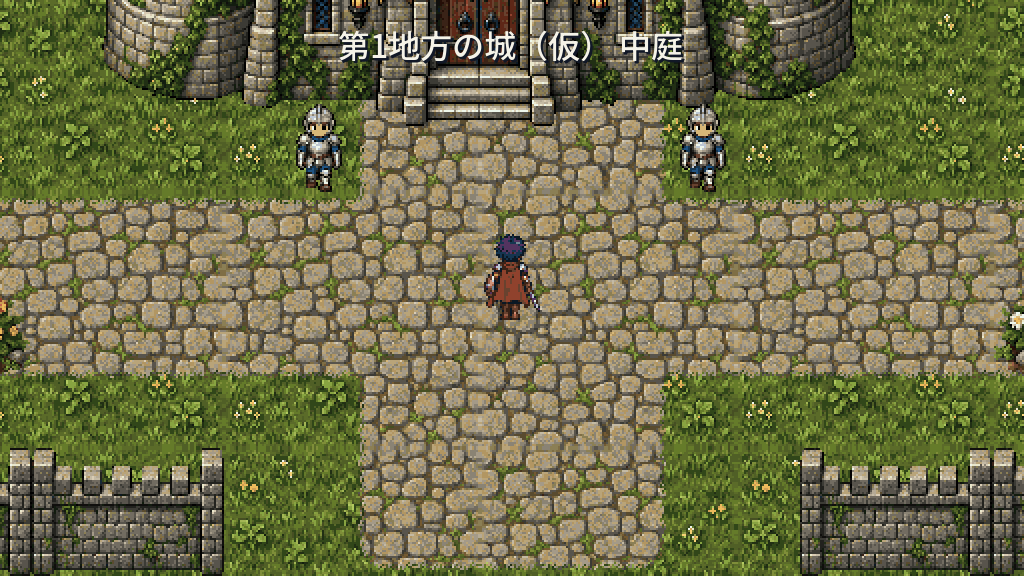
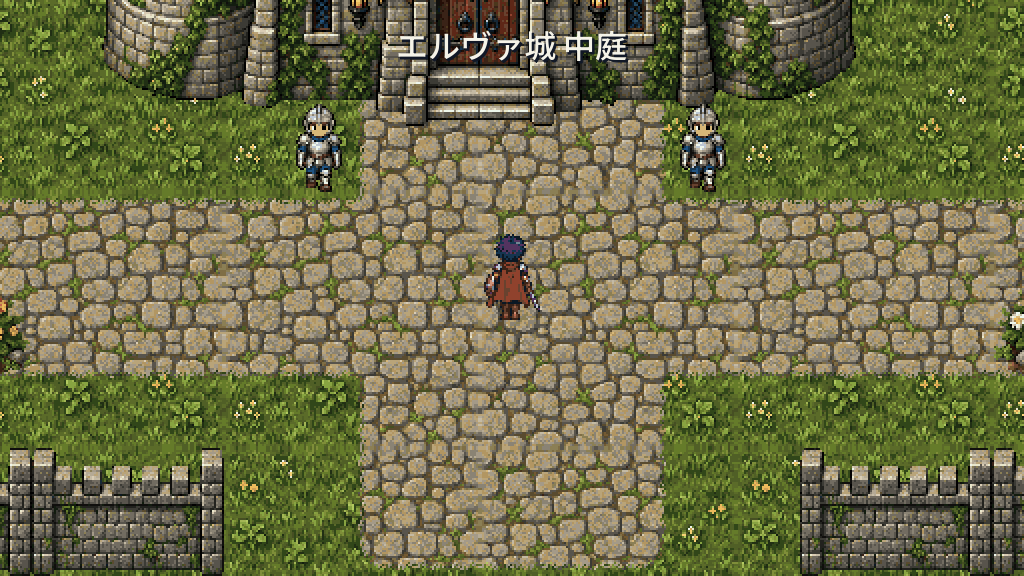
城下町と城の石垣を低くそろえ仮称と未決事項を記録する

Changed region(s): [[0.3125, 0.0312, 0.6875, 0.125]]

diff --git a/tools/build_low_castle_wall.py b/tools/build_low_castle_wall.py
@@ -1,0 +1,24 @@
+"""上下の壁の石積みから、尖らず幅が一定の左右用の低い石垣を作る。"""
+import json
+import hashlib
+from pathlib import Path
+from PIL import Image
+
+ROOT=Path(__file__).resolve().parents[1]
+
+def main():
+    source='assets/objects/natural_wall_horizontal.png'
+    target='assets/objects/castle_low_wall_vertical.png'
+    original=Image.open(ROOT/source).convert('RGBA')
+    # 胸壁より下のまっすぐな石積みを使う。階段状の縦壁や先細りの輪郭は使わない。
+    strip=original.crop((0,24,96,64)).transpose(Image.Transpose.ROTATE_90)
+    wall=Image.new('RGBA',(64,96));wall.alpha_composite(strip,(12,0));wall.save(ROOT/target)
+    registry_path=ROOT/'assets/registry.json';registry=json.loads(registry_path.read_text(encoding='utf8'))
+    entries={e['path']:e for e in registry['assets']}
+    entries[target]=dict(path=target,kind='object',size=[64,96],max_colors=64,status='required',palette='assets/palette/natural.gpl',source='generated',tool='Python/Pillow',author='RPG-maker / Codex',license='LicenseRef-Generated-Project',generated_at='2026-09-28',prompt_record='assets/source_records/visual-target-generation.json#wall_kit',modified='承認済みの水平壁から直線の石積み領域(0,24,96,64)を切り出し、90度回転して左右用の低い石垣へ配置。元画像・通行領域は不変。',component_sources=[source])
+    registry['assets']=list(entries.values());registry_path.write_text(json.dumps(registry,ensure_ascii=False,indent=2)+'\n',encoding='utf8',newline='\n')
+    record={'source':source,'source_sha256':hashlib.sha256((ROOT/source).read_bytes()).hexdigest(),'crop':[0,24,96,64],'rotation':90,'offset':[12,0],'output':target,'sha256':hashlib.sha256((ROOT/target).read_bytes()).hexdigest()}
+    (ROOT/'assets/source_records/castle-low-wall.json').write_text(json.dumps(record,ensure_ascii=False,indent=2)+'\n',encoding='utf8',newline='\n')
+    print('LOW_CASTLE_WALL_PASS: size=64x96 source_unchanged=1')
+
+if __name__=='__main__':main()

diff --git a/tools/build_castle_town.py b/tools/build_castle_town.py
@@ -97,7 +97,7 @@ def main():
     town.stamp(obj('bench'),22,14);town.stamp(obj('well'),10,20)
     for x in range(0,36,3):
         if not 15<=x<=18:town.stamp(obj('wall_horizontal'),x,0);town.stamp(obj('wall_horizontal'),x,24)
-    for y in range(2,24,3):town.stamp(obj('wall_vertical'),0,y);town.stamp(obj('wall_vertical'),34,y)
+    for y in range(2,24,3):town.stamp('assets/objects/castle_low_wall_vertical.png',0,y);town.stamp('assets/objects/castle_low_wall_vertical.png',34,y)
     town.stamp(obj('gate_open'),16,0,False);town.stamp(obj('gate_open'),16,22,False)
     for y in range(0,26):
         if y<4 or y>21:
@@ -121,7 +121,7 @@ def main():
     for x in [2,6,24,28]:court.stamp(obj('flowerbed'),x,13,False)
     for x in range(0,32,3):
         if not 12<=x<=18:court.stamp(obj('wall_horizontal'),x,0);court.stamp(obj('wall_horizontal'),x,16)
-    for y in range(2,16,3):court.stamp(obj('wall_vertical'),0,y);court.stamp(obj('wall_vertical'),30,y)
+    for y in range(2,16,3):court.stamp('assets/objects/castle_low_wall_vertical.png',0,y);court.stamp('assets/objects/castle_low_wall_vertical.png',30,y)
     for y in range(10,18):court.door(16,y)
     add(court,names['castle']+' 中庭',[npc('court_guard_left',[13,11],'城の兵士',['正面の扉が謁見の間です。']),npc('court_guard_right',[19,11],'城の兵士',['王がお待ちです。通行証を見せてください。'])])
     hall=enclosed('castle_hall',32,22)

diff --git a/docs/roadmap-v2.md b/docs/roadmap-v2.md
@@ -95,6 +95,7 @@ R-07（最初の地方の通し到達）を合格のまま保つ。
 Codexは、これらの事項に関わる作業に入る前に、依頼者に選択肢と推奨を示して決めてもらう。決まったら docs/experience-spec-v2.md に書き込む。
 
 物語・世界
+城と城下町の正式名称（仮称はエルヴァ城下町・エルヴァ城。物語の細部が決まった後に見直す）
 ゲームの題名（物語の細部が決まった後に決める）
 神々が黒く染まった理由と、主人公たちの旅の目的の細部
 月・海・戦い・実りの神を、後半の4か所のどこに置くか
@@ -104,6 +105,7 @@ Codexは、これらの事項に関わる作業に入る前に、依頼者に選
 神々・精霊・死神・鍛冶の親方などの役と配置
 旧本編80話のうち、どの話を本筋・寄り道・使わないに分けるか
 遊び・仕組み
+防具の購入と装備の仕組み（最初の地方を作り終えるまでに決める。今回は防具屋の建物・店員・会話まで）
 転移呪文・脱出道具・船・飛行手段の正式名（仮名「帰還の風」「脱出の糸」）。飛行手段の形は鷲の頭と翼を持つ空飛ぶ船に決定（2026年9月26日）
 「周辺で戦う」を廃止し、ランダムエンカウントにそろえるか
 敵との遭遇の頻度と、全体の難易度
@@ -111,6 +113,7 @@ Codexは、これらの事項に関わる作業に入る前に、依頼者に選
 旧保存は職業・熟練度だけ読み込み、位置と進行は引き継がない形でよいか
 神の加護を戦闘で使う仕組み（召喚など）を、後で追加するかどうか
 見た目・音
+メニュー画面の見た目の統一（転職などの灰色の選択欄を、戦闘・会話と同じ濃い青の地・白い縁取りへそろえる。今回は記録のみ）
 遺跡の戦闘背景の、手前の倒れた柱の位置
 探索画面を全画面にしたあと、さらに縮小表示して広く見せるか
 仲間4人の新しい色（自然色パレット）と背景の相性の採否

diff --git a/docs/experience-spec-v2.md b/docs/experience-spec-v2.md
@@ -348,6 +348,8 @@ flowchart LR
 | `first_gate` | ベルナの関所 |
 | `first_boss` | 水門の荒獣 |
 | `gate_pass` | 関所の通行証 |
+| `first_castle` 城下町 | エルヴァ城下町（仮称。正式名は物語の細部が決まった後に見直す） |
+| `first_castle` 城 | エルヴァ城（仮称。同上） |
 
 ### 外部素材の条件
 
@@ -364,6 +366,8 @@ Codexは、これらの事項に関わる作業に入る前に、依頼者に選
 
 ### 物語・世界
 
+- [ ] 城と城下町の正式名称（仮称：エルヴァ城下町・エルヴァ城）
+
 - [ ] ゲームの題名（物語の細部が決まった後に決める）
 - [ ] 神々が黒く染まった理由と、主人公たちの旅の目的の細部
 - [ ] 月・海・戦い・実りの神を、後半の4か所のどこに置くか
@@ -375,6 +379,8 @@ Codexは、これらの事項に関わる作業に入る前に、依頼者に選
 
 ### 遊び・仕組み
 
+- [ ] 防具の購入と装備の仕組み。最初の地方を作り終えるまでに決める。2026年9月28日、依頼者は今回の防具屋を建物・店員・会話までと決定した。
+
 - [ ] 転移呪文・脱出道具・船・飛行手段の正式名（仮名「帰還の風」「脱出の糸」）。飛行手段の形は鷲の頭と翼を持つ空飛ぶ船に決定（2026年9月26日）
 - [ ] 「周辺で戦う」を廃止し、ランダムエンカウントにそろえるか
 - [ ] 敵との遭遇の頻度と、全体の難易度
@@ -384,6 +390,8 @@ Codexは、これらの事項に関わる作業に入る前に、依頼者に選
 - [ ] 旧本編の検査ジョブを、いつ普段のCIから外すか
 
 ### 見た目・音
+
+- [ ] メニュー画面の見た目の統一。転職などの選択欄を濃い青の地・白い縁取りへそろえる。今回の修正対象には含めない。
 
 - [ ] 探索画面を全画面にしたあと、さらに縮小表示して広く見せるか
 - [ ] 仲間4人の新しい色（自然色パレット）と背景の相性の採否

diff --git a/docs/sprint5-castle-town.md b/docs/sprint5-castle-town.md
@@ -1,5 +1,7 @@
 # スプリント5・最初の区切り：城下町と城
 
+> 2026年9月28日、依頼者が城下町と城を採用。仮称はエルヴァ城下町・エルヴァ城、防具屋は今回は建物・店員・会話までと決定。正式名称と防具の購入・装備は計画の未決事項へ残す。左右の壁は上下の壁由来の低い石垣へ修正する。以下の「確認中」は初回提出時の記録。
+
 2026年9月28日。依頼者が12職の歩行素材を採用し、スプリント3を完了した。魔物化原画を作り直しているため、実施順をスプリント5→4へ変更した。今回は城下町と城を制作し、ここで確認画像を報告して止まる。
 
 ## 制作範囲
